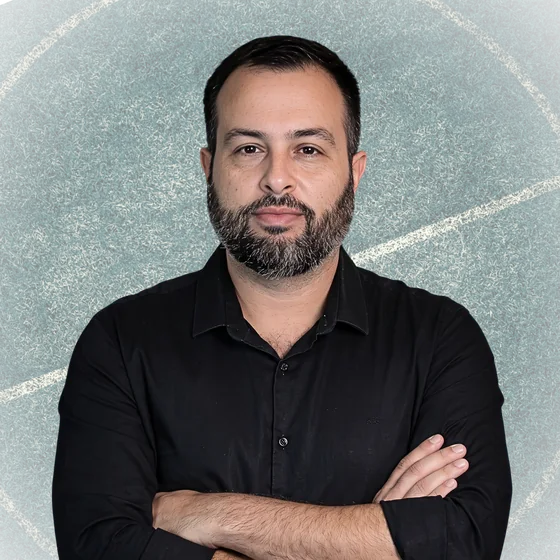
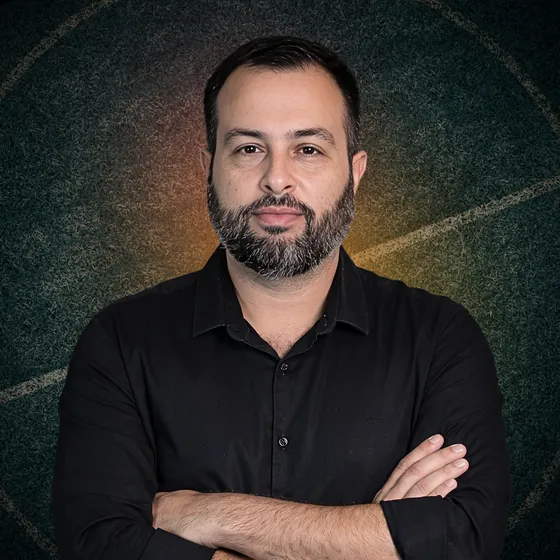
Fotos novas dos autores e caixas de vidro da hero menores, com mais desfoque, em todas as telas

diff --git a/css/claro.css b/css/claro.css
@@ -229,10 +229,23 @@ button:hover > .play { scale: 1.07; }
   transform:
     perspective(1100px)
     translate3d(calc(var(--px, 0) * var(--prof, 1) * 22px), calc(var(--py, 0) * var(--prof, 1) * 14px), 0)
-    rotateY(var(--ry, 0deg)) rotateX(var(--rx, 0deg)) scale(var(--s, 1));
+    rotateY(var(--ry, 0deg)) rotateX(var(--rx, 0deg)) scale(calc(var(--s, 1) * var(--k, .82)));
   transition: transform .6s cubic-bezier(.2, .7, .2, 1);
 }
-.flut.longe { z-index: 1; filter: blur(1.3px); opacity: .8; }
+.flut.c-esq, .flut.longe { transform-origin: 0 50%; }
+.flut.c-dir, .flut.f-nome { transform-origin: 100% 50%; }
+.flut.longe { z-index: 1; filter: blur(1px); opacity: .85; }
+.flutuantes .vidro {
+  position: relative; overflow: hidden;
+  background: linear-gradient(135deg, rgba(255, 255, 255, .22), rgba(255, 255, 255, .06) 50%, rgba(255, 255, 255, .12));
+  border: 1px solid rgba(255, 255, 255, .26);
+  -webkit-backdrop-filter: blur(24px) saturate(190%) brightness(1.08); backdrop-filter: blur(24px) saturate(190%) brightness(1.08);
+  box-shadow: inset 0 1px 0 rgba(255, 255, 255, .45), inset 0 -1px 0 rgba(255, 255, 255, .08), 0 24px 60px -24px rgba(0, 0, 0, .9);
+}
+.flutuantes .vidro::before { /* reflexo, atrás do texto */
+  content: ""; position: absolute; inset: 0; z-index: -1; pointer-events: none; border-radius: inherit;
+  background: linear-gradient(115deg, rgba(255, 255, 255, .22), transparent 38%, transparent 70%, rgba(255, 255, 255, .08));
+}
 .flut > .vidro { animation: flutua var(--dur, 7s) ease-in-out infinite; }
 @keyframes flutua { 0%, 100% { translate: 0 0; } 50% { translate: 0 -10px; } }
 .rotulo {
@@ -243,7 +256,7 @@ button:hover > .play { scale: 1.07; }
 }
 .rotulo li { display: flex; align-items: center; gap: 9px; }
 .rotulo svg { width: 19px; height: 19px; flex-shrink: 0; fill: none; stroke: var(--laranja-vivo); stroke-width: 1.8; stroke-linecap: round; stroke-linejoin: round; }
-.nome-tag { display: grid; gap: 2px; padding: 12px 20px 12px 16px; border-radius: 14px; box-shadow: inset 2px 0 0 var(--laranja-vivo), 0 24px 60px -24px rgba(0, 0, 0, .9) !important; }
+.nome-tag { display: grid; gap: 2px; padding: 12px 20px 12px 16px; border-radius: 14px; box-shadow: inset 2px 0 0 var(--laranja-vivo), inset 0 1px 0 rgba(255, 255, 255, .45), 0 24px 60px -24px rgba(0, 0, 0, .9) !important; }
 .nome-tag strong { font-family: var(--display); font-stretch: 75%; font-weight: 700; font-size: 1.1875rem; letter-spacing: .02em; text-transform: uppercase; line-height: 1.1; color: var(--branco); }
 .nome-tag span { font-size: .8125rem; color: var(--cinza-claro); }
 
@@ -693,7 +706,7 @@ dialog[open] { display: grid; place-items: center; }
   .hc-texto { margin-top: -56px; padding-bottom: 0; }
   .hc-texto .selo { background: rgba(0, 0, 0, .55); -webkit-backdrop-filter: blur(10px); backdrop-filter: blur(10px); }
   .aneis { top: 46%; }
-  .flut.longe { display: none; }
+  .flut.longe { --l: -6% !important; --t: 12% !important; }
   .flut.f-nome { --r: -8% !important; --t: 43% !important; }
   .flut.c-esq { --l: -8% !important; --t: 53% !important; }
   .flut.c-dir { --r: -8% !important; --t: 66% !important; }
@@ -722,7 +735,7 @@ dialog[open] { display: grid; place-items: center; }
   .acoes, .rodape-topo { justify-content: center; }
   .video-texto .checks { width: fit-content; margin-inline: auto; text-align: left; }
   .pessoa-foto { margin-inline: auto; }
-  .flut { --s: .72; }
+  .flut { --k: .62; }
   .flut.f-nome { --t: 41% !important; }
   .flut.c-esq { --t: 50% !important; }
   .flut.c-dir { --t: 58% !important; }
@@ -752,10 +765,8 @@ dialog[open] { display: grid; place-items: center; }
 }
 
 @media (max-width: 380px) {
-  .flut { --s: .64; }
-}
-@media (max-width: 340px) {
-  .flut.c-dir { display: none; }
+  .flut { --k: .56; }
+  .flut.c-dir { --t: 55% !important; }
 }
 
 @media (prefers-reduced-motion: reduce) {

diff --git a/index.html b/index.html
@@ -25,7 +25,7 @@
 <link rel="preconnect" href="https://fonts.googleapis.com">
 <link rel="preconnect" href="https://fonts.gstatic.com" crossorigin>
 <link href="https://fonts.googleapis.com/css2?family=Geist:wght@300..700&family=Geist+Mono:wght@400..600&family=Saira:wdth,wght@50..125,100..900&display=swap" rel="stylesheet">
-<link rel="stylesheet" href="css/claro.css?v=202610011415">
+<link rel="stylesheet" href="css/claro.css?v=202610011500">
 <link rel="stylesheet" href="css/vidro.css?v=202610011300">
 </head>
 <body>
@@ -450,7 +450,7 @@
       </div>
       <div class="quem-grade">
         <article class="pessoa vidro" data-luz>
-          <img class="pessoa-foto" src="img/equipe/guilherme.webp" alt="Guilherme Rondon, de braços cruzados, com agasalho de treino" width="560" height="560" loading="lazy">
+          <img class="pessoa-foto" src="img/equipe/guilherme.webp?v=2" alt="Guilherme Rondon, de braços cruzados, com agasalho de treino, sobre um fundo de gramado escuro" width="560" height="560" loading="lazy">
           <div>
             <h3>Guilherme Rondon</h3>
             <p class="pessoa-cargo">Idealizador do SoccerWork</p>
@@ -458,7 +458,7 @@
           </div>
         </article>
         <article class="pessoa vidro" data-luz>
-          <img class="pessoa-foto" src="img/equipe/luis.webp" alt="Luis Esteves, de braços cruzados, com camisa preta" width="560" height="560" loading="lazy">
+          <img class="pessoa-foto" src="img/equipe/luis.webp?v=2" alt="Luis Esteves, de braços cruzados, com camisa preta, sobre um fundo de gramado escuro" width="560" height="560" loading="lazy">
           <div>
             <h3>Luis Esteves</h3>
             <p class="pessoa-cargo">Desenvolvedor do SoccerWork</p>

diff --git a/pix.html b/pix.html
@@ -14,7 +14,7 @@
 <link rel="preconnect" href="https://fonts.googleapis.com">
 <link rel="preconnect" href="https://fonts.gstatic.com" crossorigin>
 <link href="https://fonts.googleapis.com/css2?family=Geist:wght@300..700&family=Geist+Mono:wght@400..600&family=Saira:wdth,wght@50..125,100..900&display=swap" rel="stylesheet">
-<link rel="stylesheet" href="css/claro.css?v=202610011415">
+<link rel="stylesheet" href="css/claro.css?v=202610011500">
 <link rel="stylesheet" href="css/vidro.css?v=202610011300">
 </head>
 <body class="pg-pix">
